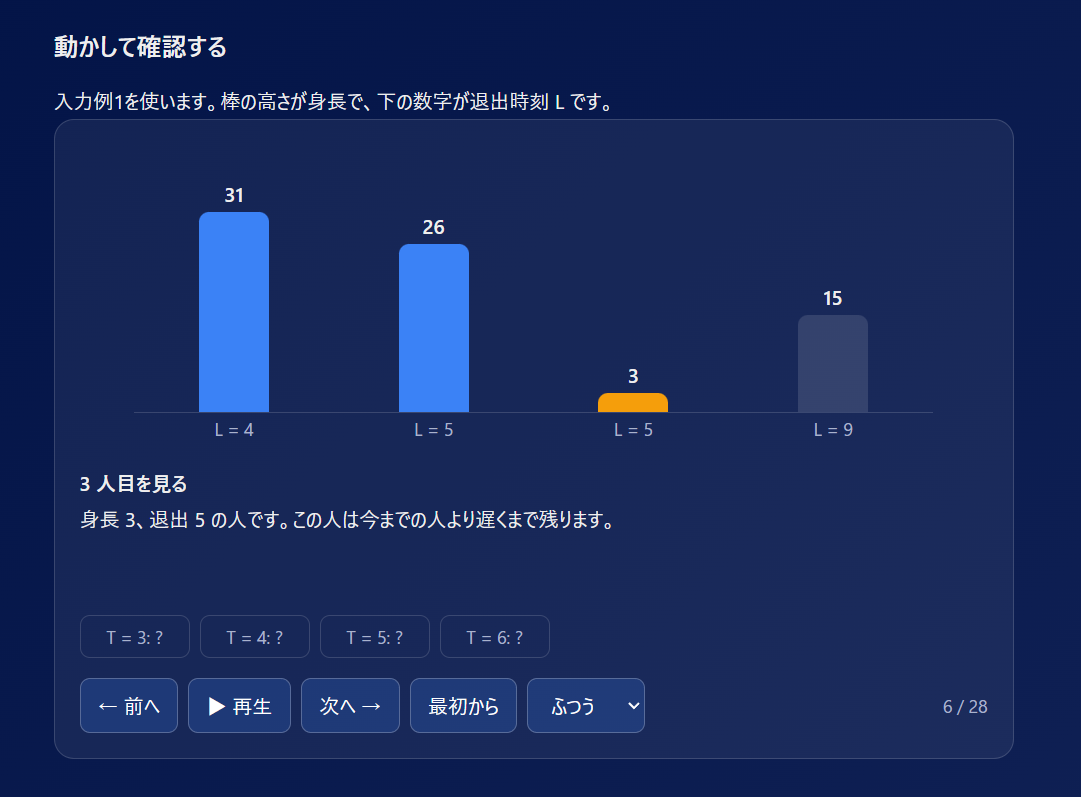
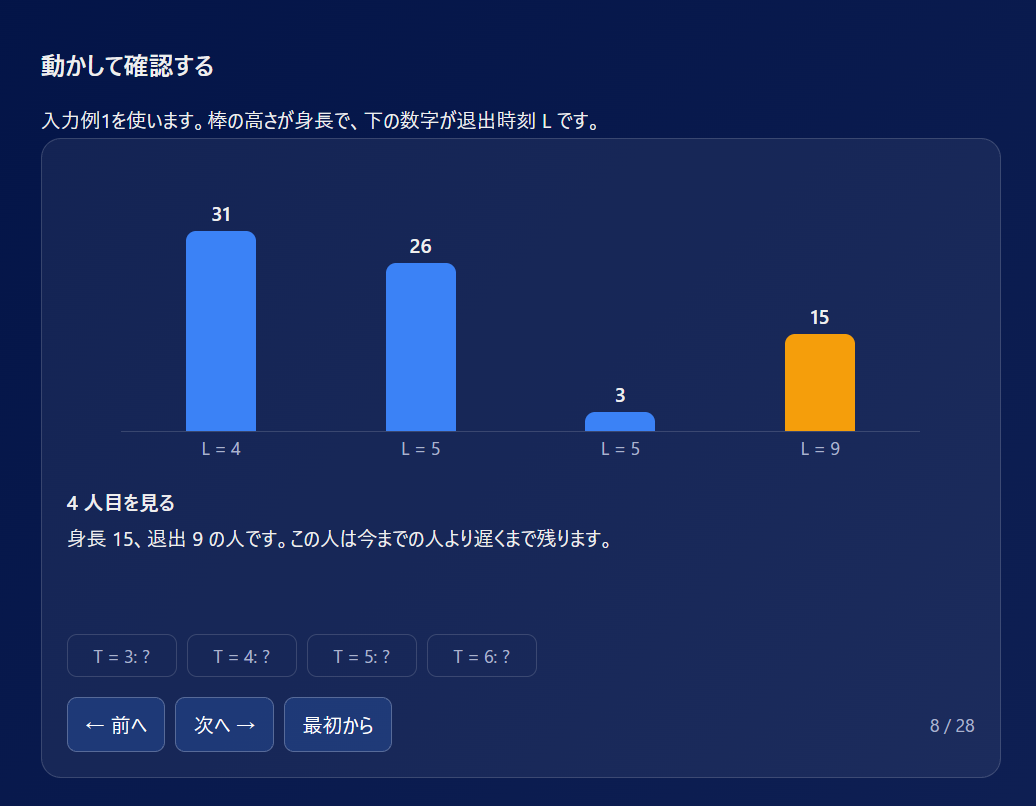
⚡ Update

diff --git a/src/app/_compnents/UI/badge.module.css b/src/app/_compnents/UI/badge.module.css
@@ -17,15 +17,17 @@
   }
 
   &.done {
-    --glow-rgb: var(--color-primary-rgb);
+    --glow-rgb: 74, 222, 128;
 
+    position: relative;
+    z-index: 1;
     padding: 4px 10px;
-    border: 1px solid var(--color-primary);
+    border: 1px solid #4ade80;
     border-radius: 8px;
-    background-color: rgb(var(--color-primary-rgb), 0.12);
-    color: var(--color-primary);
+    background-color: rgb(74 222 128 / 12%);
+    color: #4ade80;
     font-size: 14px;
-    text-shadow: 0 0 6px rgb(var(--color-primary-rgb), 0.8);
+    text-shadow: 0 0 6px rgb(74 222 128 / 80%);
   }
 }
 
